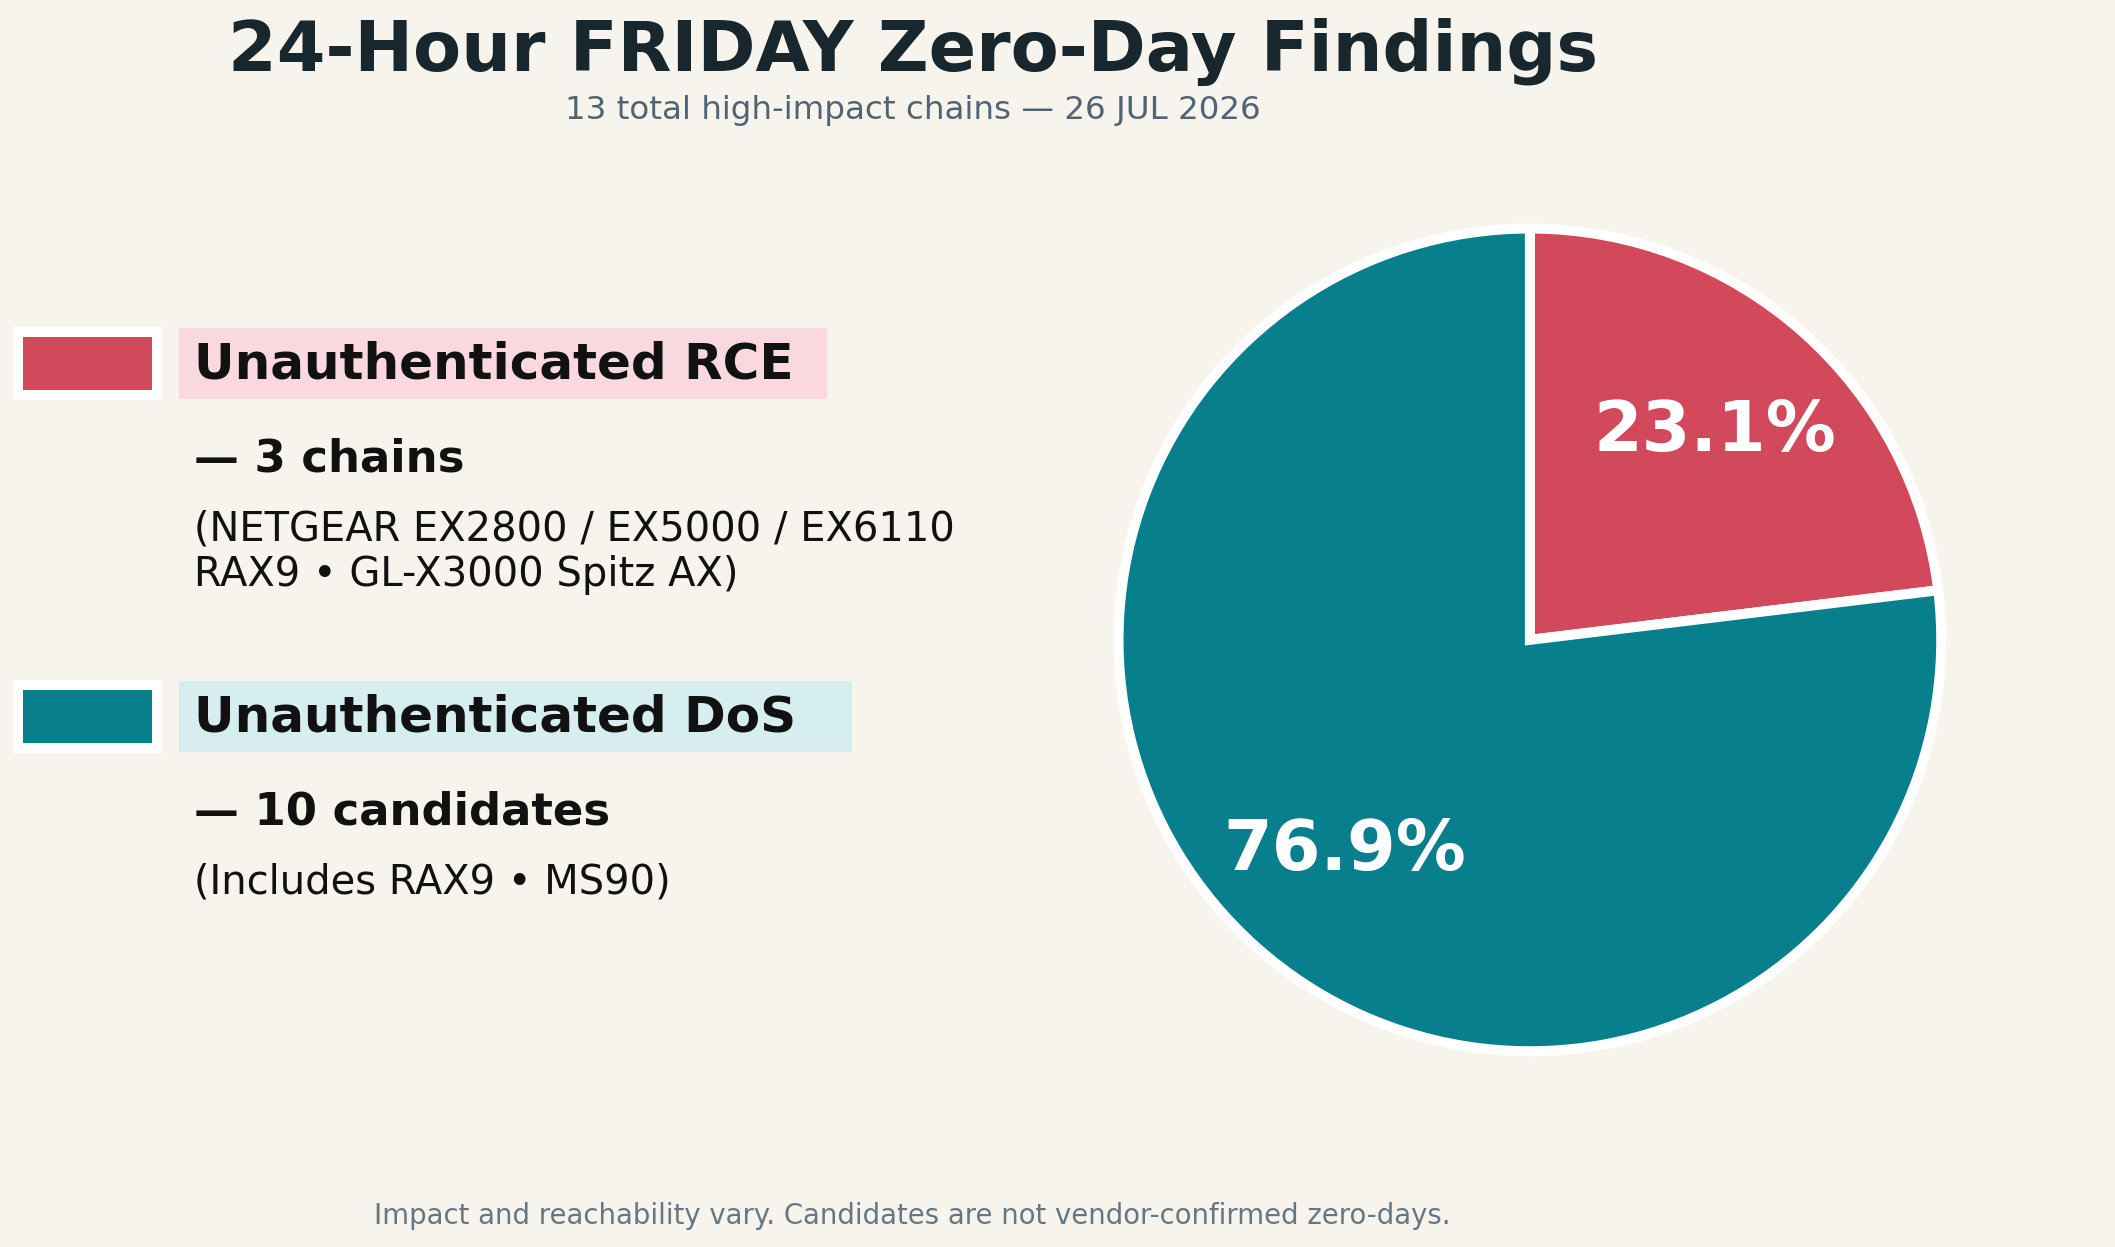
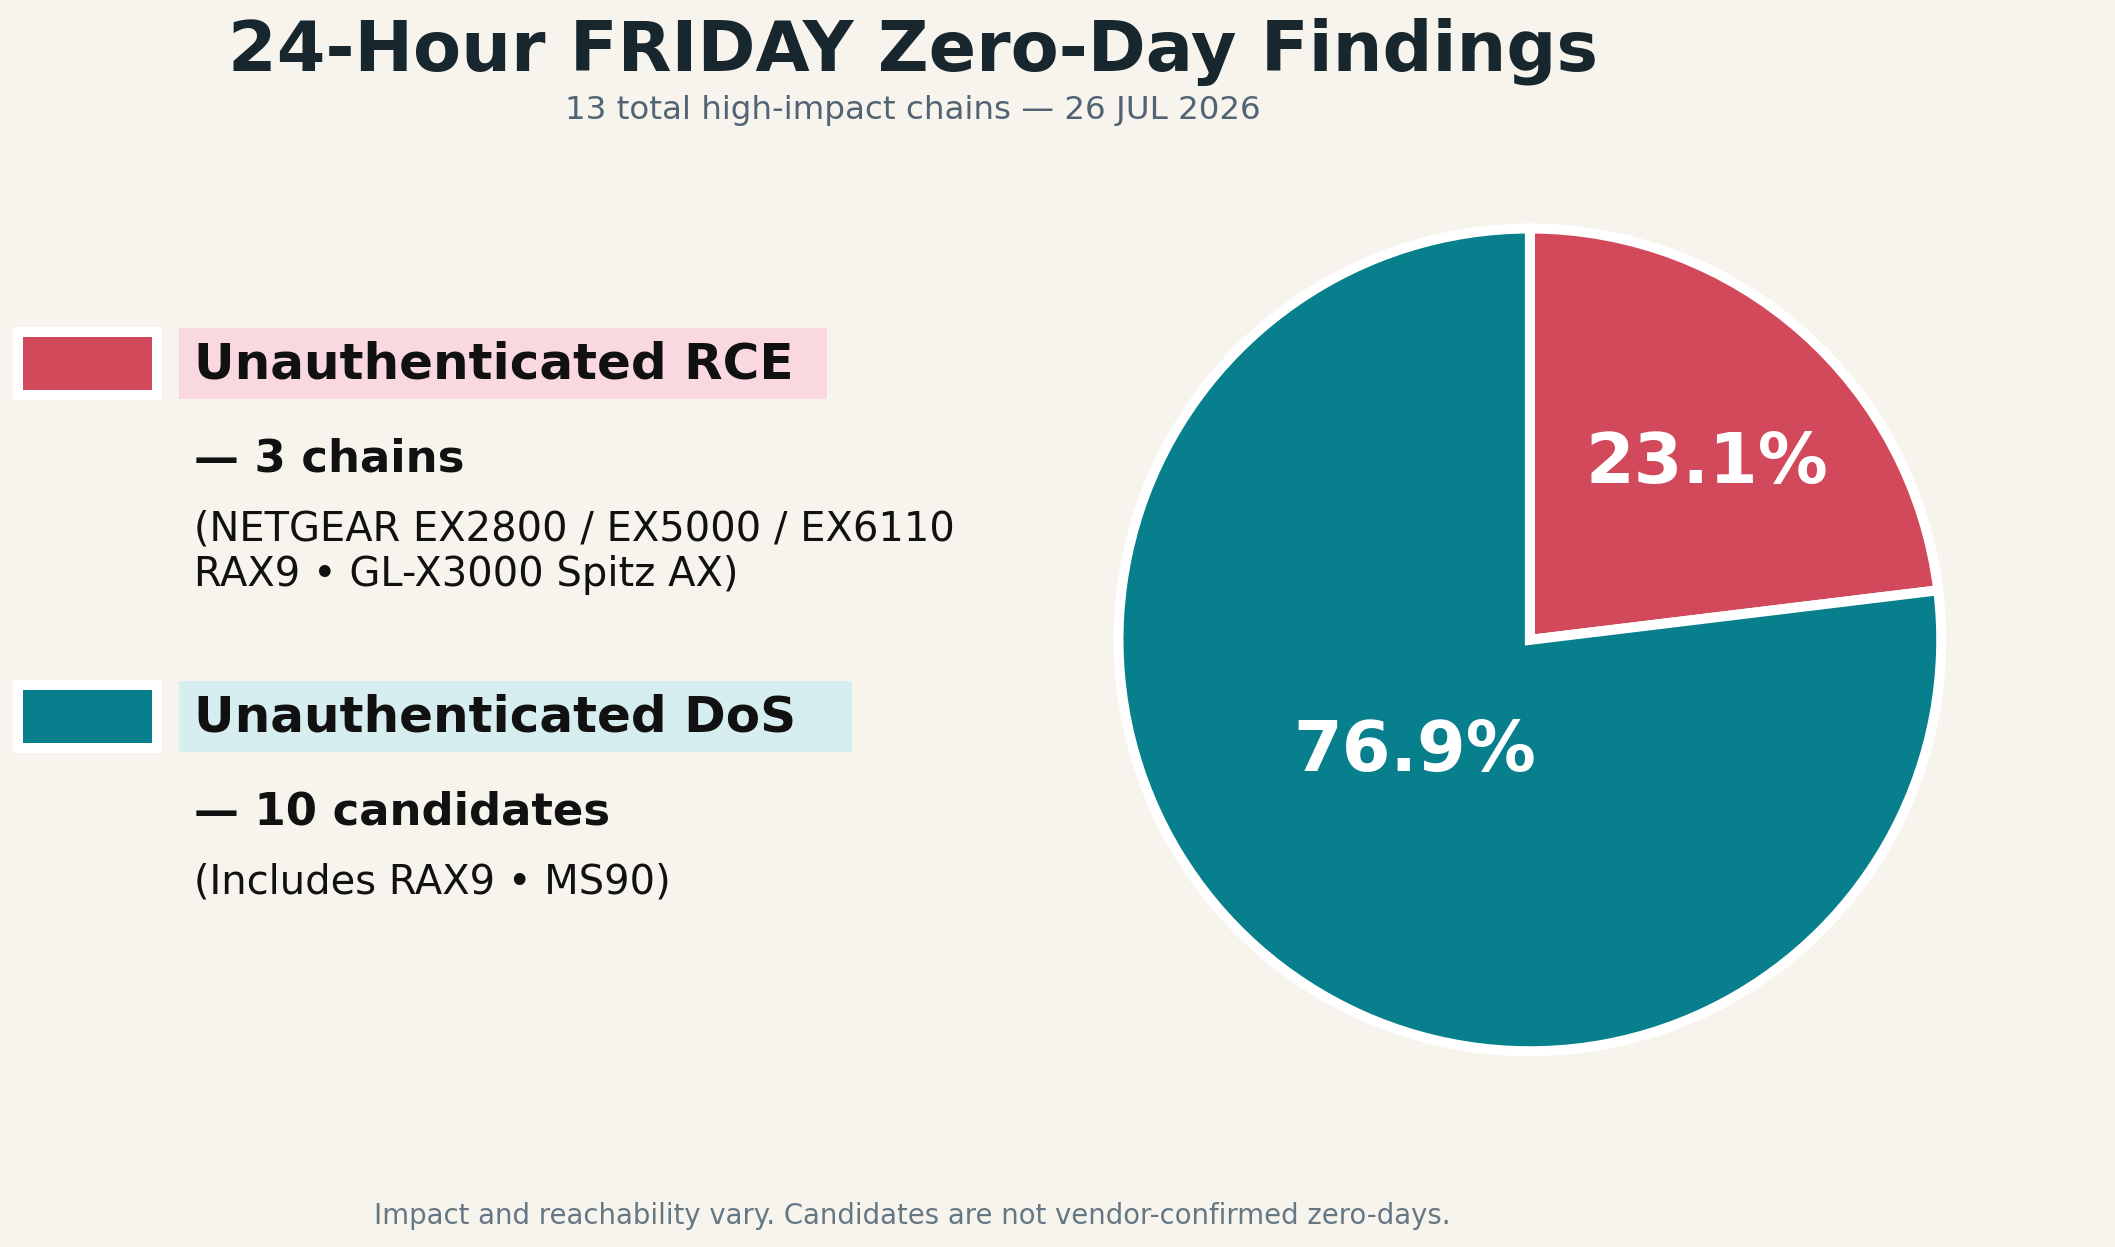
Center percentage labels within pie slices

Changed region(s): [[0.5617, 0.579, 0.7177, 0.7009], [0.7489, 0.3047, 0.8738, 0.3962]]

diff --git a/scripts/build_24_hour_findings_pie.py b/scripts/build_24_hour_findings_pie.py
@@ -32,6 +32,8 @@ def main() -> None:
         percentage.set_color("white")
         percentage.set_fontsize(28)
         percentage.set_fontweight("bold")
+    percentages[0].set_position((0.43, 0.43))
+    percentages[1].set_position((-0.28, -0.27))
 
     swatch_x = 0.145
     key_x = 0.215
